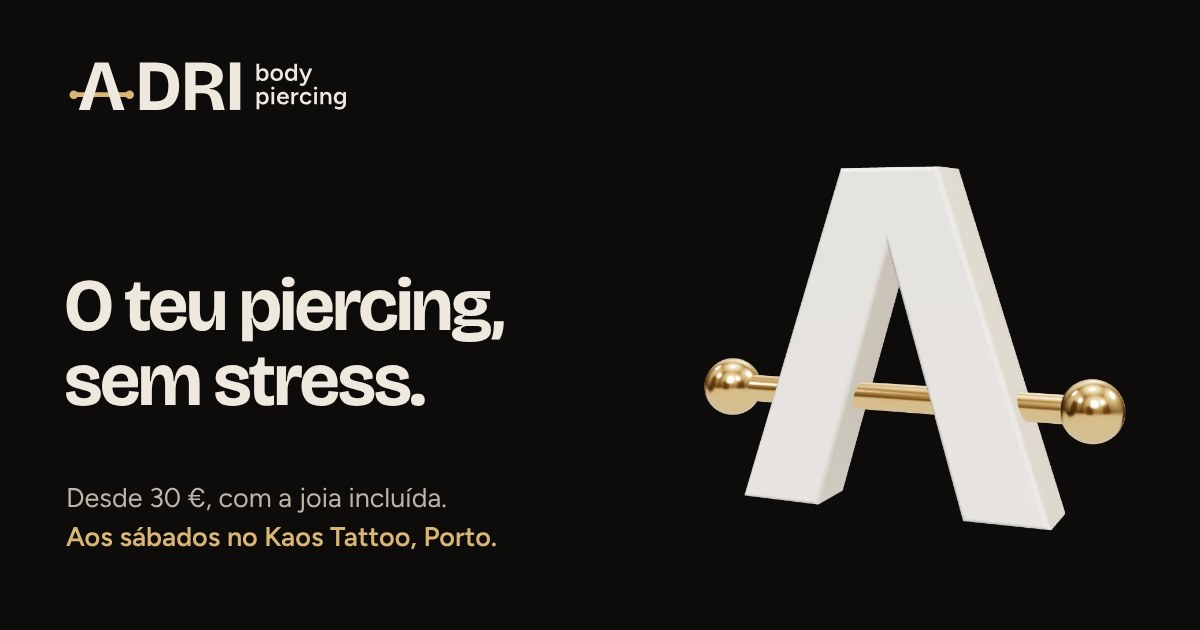
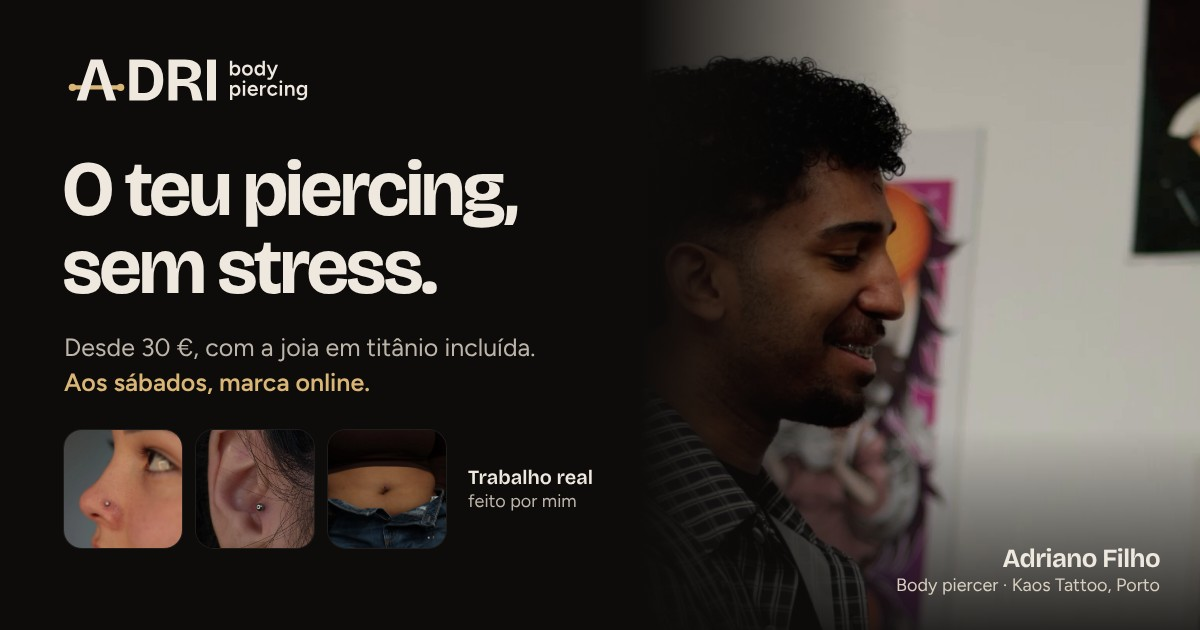
AdriBodyPiercing: pré-visualização de partilha com fotos reais e etiquetas completas

diff --git a/sites/adribodypiercing/index.html b/sites/adribodypiercing/index.html
@@ -3,18 +3,25 @@
 <head>
 <meta charset="utf-8">
 <meta name="viewport" content="width=device-width, initial-scale=1, viewport-fit=cover">
-<title>AdriBodyPiercing — estúdio de body piercing</title>
+<title>AdriBodyPiercing · Body piercing no Porto, com o Adriano</title>
 <meta name="description" content="Estúdio de body piercing do Adriano. Agulha de uso único, joias em titânio de implante e ouro maciço. No Kaos Tattoo, Rua da Torrinha, Porto. Marca online.">
 <meta name="theme-color" content="#0E0C0B">
 <meta name="color-scheme" content="dark light">
-<meta property="og:title" content="AdriBodyPiercing">
-<meta property="og:description" content="O teu piercing, sem stress. No Kaos Tattoo, no Porto. Marca online em 2 minutos.">
+<meta property="og:title" content="AdriBodyPiercing · Body piercing no Porto">
+<meta property="og:description" content="Piercings desde 30 €, com a joia em titânio incluída. Agulha de uso único e preço fechado. Aos sábados no Kaos Tattoo, Rua da Torrinha 202. Marca online em 2 minutos.">
 <meta property="og:type" content="website">
 <meta property="og:locale" content="pt_PT">
-<meta property="og:image" content="https://adribodypiercing.2-31-13-85.sslip.io/og.jpg">
+<meta property="og:url" content="https://adribodypiercing.2-31-13-85.sslip.io/">
+<meta property="og:image" content="https://adribodypiercing.2-31-13-85.sslip.io/og.jpg?v=2">
+<meta property="og:image:secure_url" content="https://adribodypiercing.2-31-13-85.sslip.io/og.jpg?v=2">
+<meta property="og:image:type" content="image/jpeg">
 <meta property="og:image:width" content="1200">
 <meta property="og:image:height" content="630">
+<meta property="og:image:alt" content="O Adriano a sorrir no estúdio, ao lado do título O teu piercing, sem stress, e de três piercings feitos por ele">
+<meta name="twitter:image" content="https://adribodypiercing.2-31-13-85.sslip.io/og.jpg?v=2">
 <meta name="twitter:card" content="summary_large_image">
+<meta name="twitter:title" content="AdriBodyPiercing · Body piercing no Porto">
+<meta name="twitter:description" content="Piercings desde 30 €, com a joia em titânio incluída. Aos sábados no Kaos Tattoo, Porto. Marca online.">
 <meta property="og:site_name" content="AdriBodyPiercing">
 <link rel="apple-touch-icon" href="/apple-touch-icon.png">
 <link rel="manifest" href="/manifest.webmanifest">
